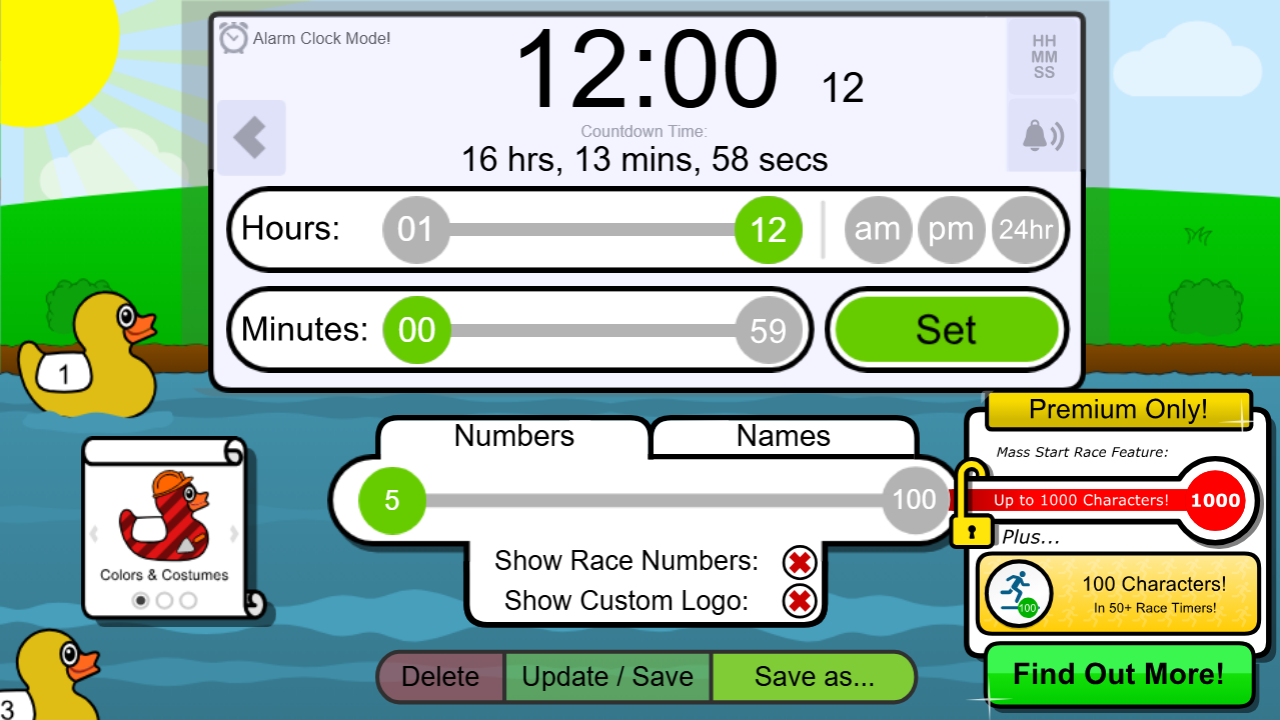
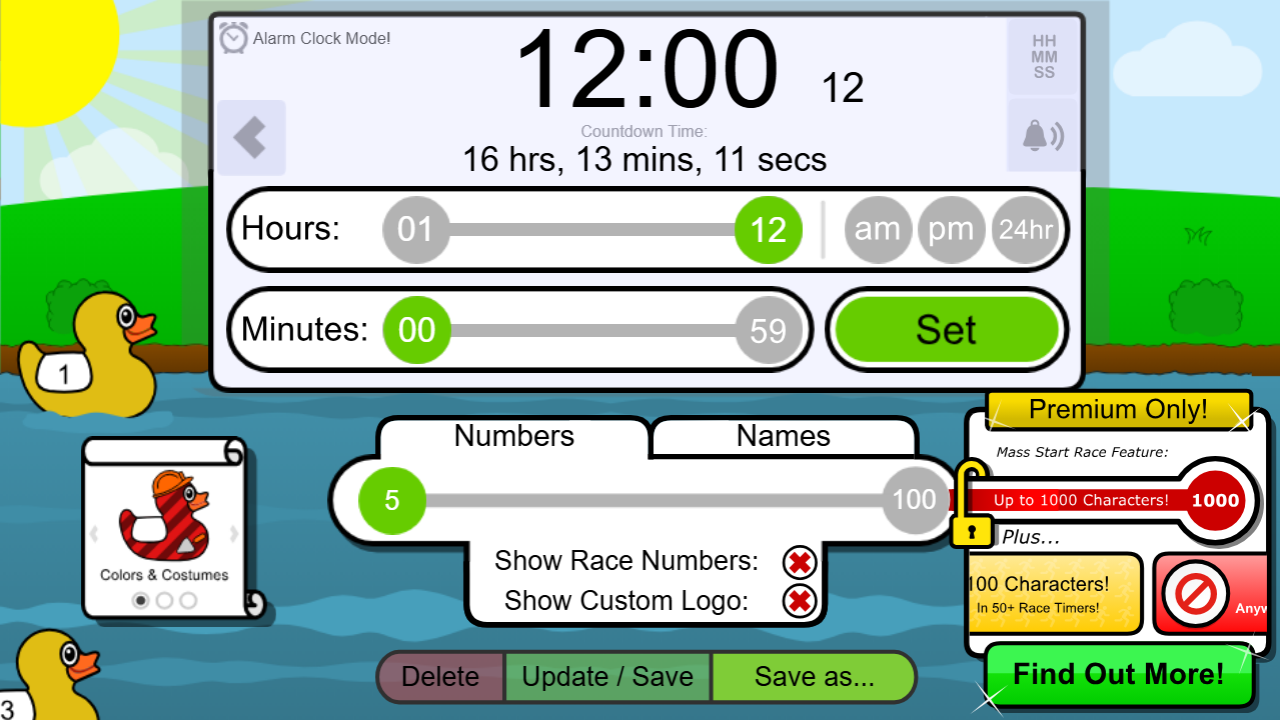
Auto-hide settings modal on startup so ducks and race track are 100% visible immediately

diff --git a/assets/html/duck-race-1000.html b/assets/html/duck-race-1000.html
@@ -232,6 +232,17 @@ AdobeAn.makeResponsive(true,'both',true,1,[canvas,anim_container,dom_overlay_con
 	setTimeout(function()
 	{
 		Main(urlData);
+		setTimeout(function() {
+			if (typeof exportRoot !== 'undefined' && exportRoot.settings) {
+				exportRoot.settings.visible = false;
+				if (typeof $ !== 'undefined') {
+					$("#titleInput").hide();
+					$("#namesList").hide();
+					$("#countInput").hide();
+					$("#selectDrop").hide();
+				}
+			}
+		}, 300);
 	},300);
 }
 </script>

diff --git a/index.html b/index.html
@@ -232,6 +232,17 @@ AdobeAn.makeResponsive(true,'both',true,1,[canvas,anim_container,dom_overlay_con
 	setTimeout(function()
 	{
 		Main(urlData);
+		setTimeout(function() {
+			if (typeof exportRoot !== 'undefined' && exportRoot.settings) {
+				exportRoot.settings.visible = false;
+				if (typeof $ !== 'undefined') {
+					$("#titleInput").hide();
+					$("#namesList").hide();
+					$("#countInput").hide();
+					$("#selectDrop").hide();
+				}
+			}
+		}, 300);
 	},300);
 }
 </script>

diff --git a/public/index.html b/public/index.html
@@ -232,6 +232,17 @@ AdobeAn.makeResponsive(true,'both',true,1,[canvas,anim_container,dom_overlay_con
 	setTimeout(function()
 	{
 		Main(urlData);
+		setTimeout(function() {
+			if (typeof exportRoot !== 'undefined' && exportRoot.settings) {
+				exportRoot.settings.visible = false;
+				if (typeof $ !== 'undefined') {
+					$("#titleInput").hide();
+					$("#namesList").hide();
+					$("#countInput").hide();
+					$("#selectDrop").hide();
+				}
+			}
+		}, 300);
 	},300);
 }
 </script>
